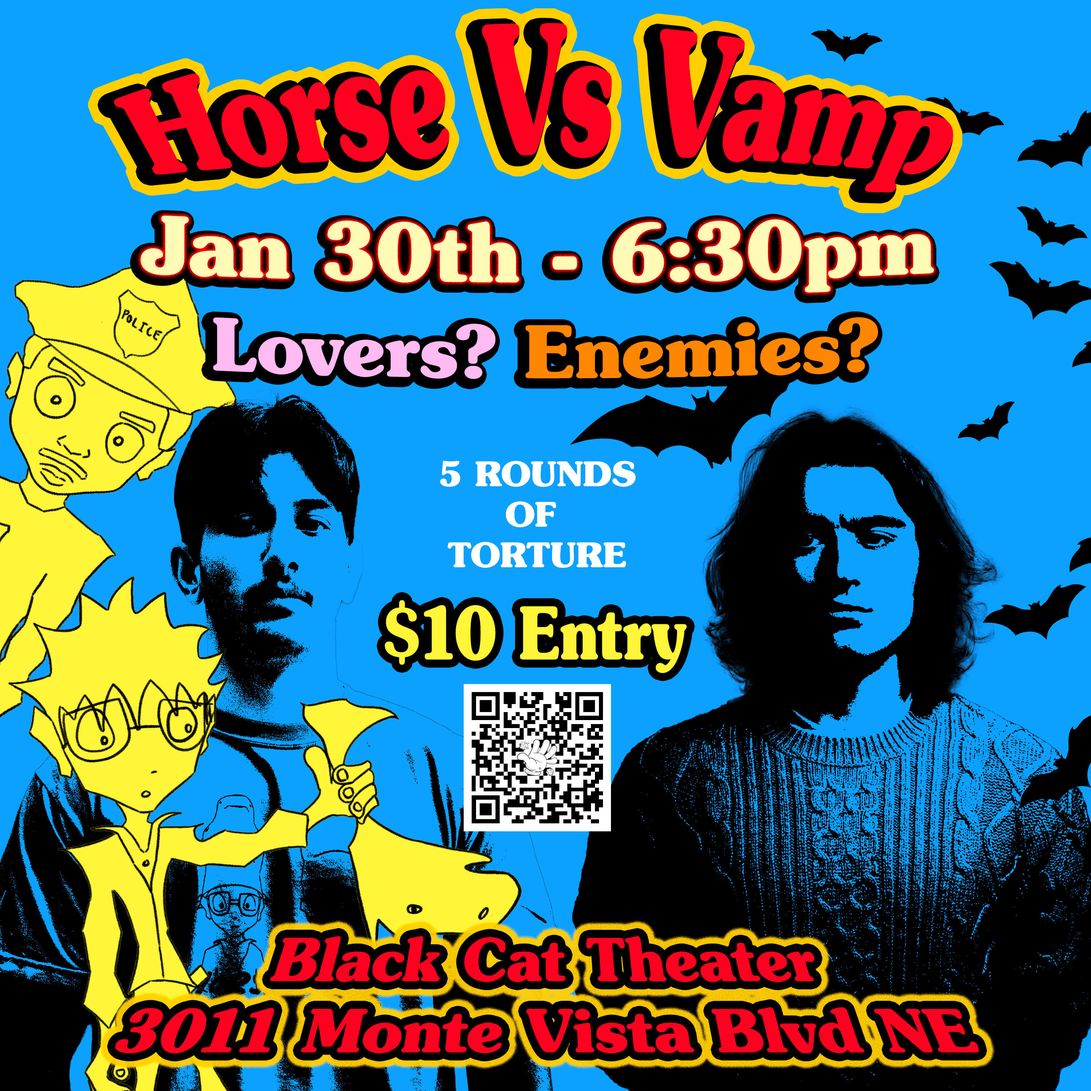
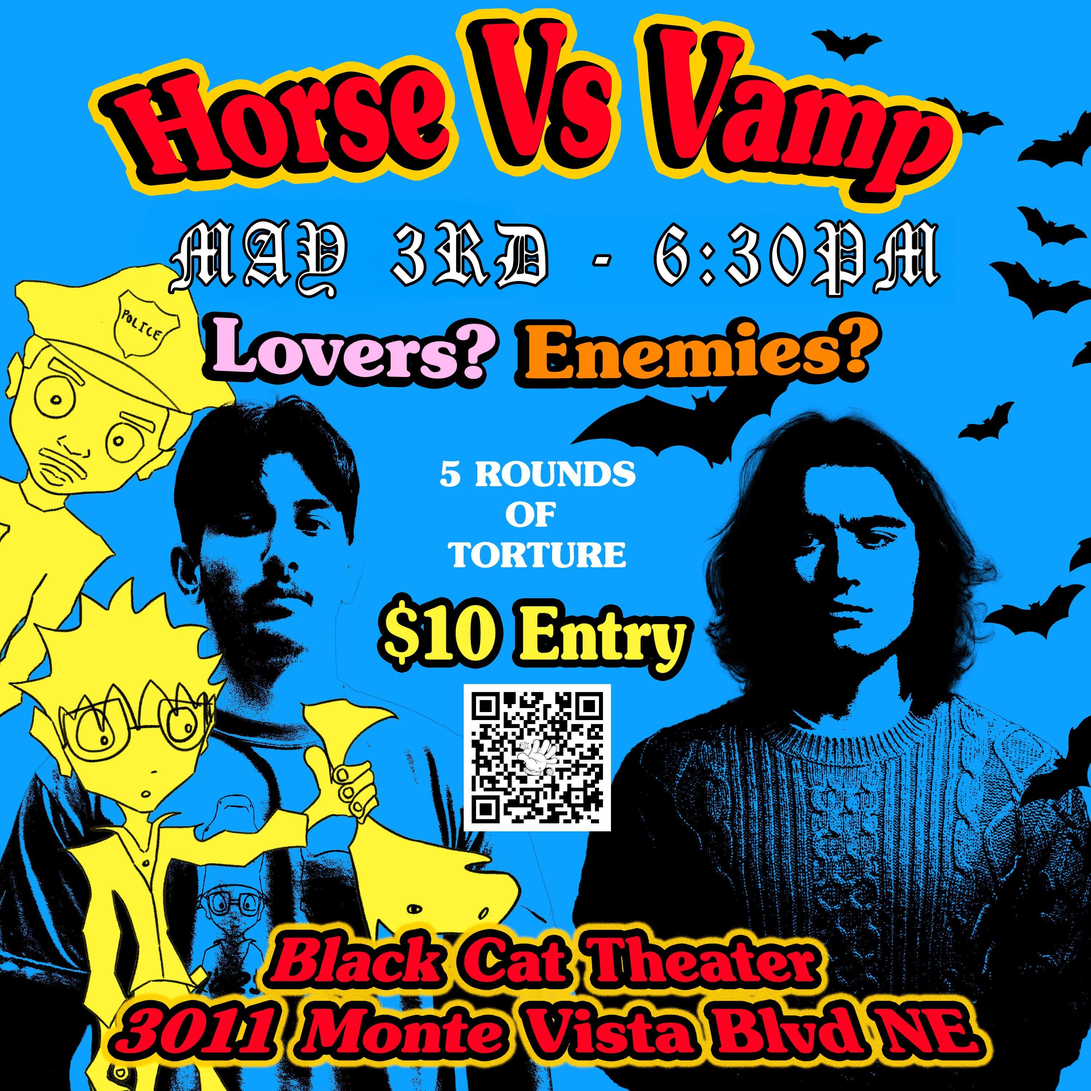
re-added horse vs. vamp

diff --git a/_products/dust-wave-horse-vs-vamp.md b/_products/dust-wave-horse-vs-vamp.md
@@ -1,25 +1,25 @@
 ---
 identifier: horse-1
 name: Horse vs. Vamp!
-description: Ticket to Horse vs. Vamp -- A Benefit Event for Horseheads!
+description: Ticket to Horse vs. Vamp -- A Dust Wave Benefit Event!
 price: 10
 image: /assets/images/horsevamp.jpg
 type: digital
 event: dustwave
-order: 0
+order: 1
 ---
 <strong>Dust Wave</strong> presents ...
 <br>
 <h2>🐴 Horse vs. Vamp! 🧛</h2>
 <h3>A Benefit Event for Horseheads + Breakups Suck</h3>
-Join us at <strong>Black Cat (3011 Monte Vista Blvd. NE) on January 30th at 6:30pm</strong> for an evening where we settle the ultimate grudge match between two filmmaker warriors! Featuring:
+Join us at <strong>Black Cat (3011 Monte Vista Blvd. NE) on May 3rd at 6:30pm</strong> for an evening where we settle the ultimate grudge match between two filmmaker warriors! Featuring:
 <br><br>
 <a href="https://www.instagram.com/noahboatproductions" target="_blank"><strong>Noah Tucker</strong></a>, director of the upcoming short film <a href="https://www.instagram.com/horseheadsfilm" target="_blank">Horseheads</a>
 <br><br><br>
 <center>vs.</center>
 <br><br>
 <a href="https://www.instagram.com/ben_carndt_" target="_blank"><strong>Ben Arndt</strong></a>, director of the upcoming short film <a href="https://www.instagram.com/breakups_suck_film" target="_blank">Breakups Suck!</a><br><br>
-testing their will and resolve in a series of mini-competitions, all in the pursuit of the ultimate prize: <strong>$500</strong> toward the making of their films. 🏆
+testing their will and resolve in a series of mini-competitions, all in the pursuit of the ultimate prize: <strong>$500</strong> toward the post-production of their films. 🏆
 <br><br>
 Also, Dust Wave films and other surprises a plenty! 🎥 🎉
 <br><br>
